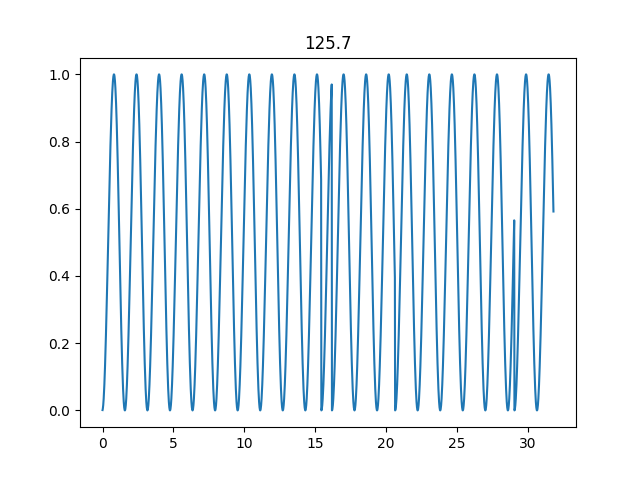
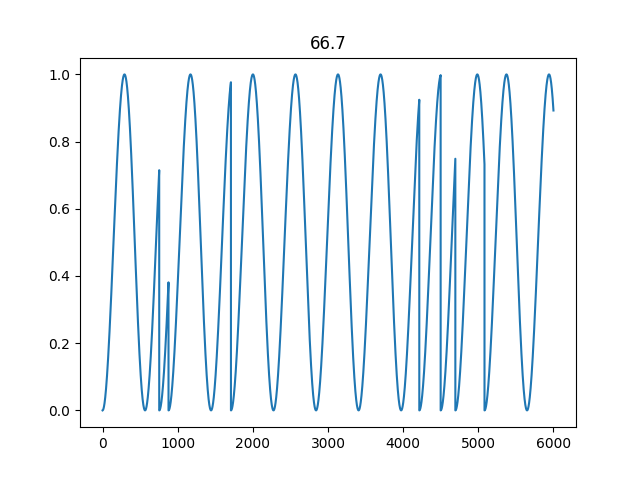
update the delt to get a better fit to the analytcal function

diff --git a/Main.py b/Main.py
@@ -12,14 +12,15 @@ import random
 import numpy as np
 import matplotlib.pyplot as plt
 import time
+from datetime import datetime
 import multiprocessing as mp
 
 # random.seed(384756)
 y1 = paras.prob1
 finals = []
-n_cpu = 6
+n_cpu = 8
 n_particle = 1000
-total_task = int(n_particle * paras.time / paras.delt)
+total_task = int(n_particle * paras.iteration)
 current_task = 0
 wow = r"""
 
@@ -110,8 +111,15 @@ def parallel():  # multi core processing
     chunk_size = int(total / n_cpu)
     print("Number of Core used: ", n_cpu)
     print("total task number: ", total_task)
-    print("estimated time: ", total_task / n_cpu / 10000, "s")
+    est = total_task/n_cpu/5000
+    est_m = int(est/60)
+    est_h = int(est_m/60)
+    est_m = est_m - est_h*60
+    est_s = est-60*est_m - est_h * 3600
+    print("estimated time: {}h {}m {}s.".format(est_h, est_m, est_s))
     begin = time.time()
+    now = datetime.now()
+    print("start time:", now)
     # distribute tasks
     for i in range(0, n_cpu):
         min_i = chunk_size * i
@@ -136,7 +144,13 @@ def parallel():  # multi core processing
     for proc in procs:
         proc.join()
     end = time.time()
-    print("time spent = {}s".format(end - begin))
+    end_time = datetime.now()
+    end_m = int(end/60)
+    end_h = int(end_m/60)
+    end_m = end_m-end_h*60
+    end_s = round(end - end_m*60 - end_h*3600, 1)
+    print("finish at :", end_time)
+    print("time spent = {}h {}m {}s".format(end_h, end_m, end_s))
 
     return res, end
 
@@ -165,8 +179,8 @@ def diff(a, b):  # calculate the percentage difference
         if a[i] == 0:
             result.append(0)
         else:
-            # result.append((a[i] - b[i]) / a[i])
-            result.append(a[i] - b[i])
+            result.append((a[i] - b[i]) / a[i])
+            # result.append(a[i] - b[i])
 
     return result
 
@@ -198,10 +212,10 @@ if __name__ == '__main__':
     # plot the graph
     plt.figure()
     fig, ax = plt.subplots(2, 1, figsize=[16, 10], gridspec_kw={'height_ratios': [4, 1]}, sharex=True)
-    xs = np.array(range(len(plot1)))
+    xs = np.array(range(len(plot1)))*paras.delt
     ys = plot1 / n_particle
 
-    ax[0].plot(range(int(paras.time / paras.delt)), anapop, label='OBE Analytic', color='green')
+    ax[0].plot(xs, anapop, label='OBE Analytic', color='green')
     ax[0].plot(xs[:-1], ys[:-1], label='Monte Carlo', color='blue')
 
     ax[0].legend()
@@ -217,7 +231,7 @@ if __name__ == '__main__':
     ax[0].set_title("Evolution", size=30)
     ax[0].set_ylabel("Population", size=15)
     ax[1].set_title("Difference", size=30)
-    ax[1].set_xlabel("Time steps", size=15)
+    ax[1].set_xlabel("Time", size=15)
     ax[1].set_ylabel("Percentage", size=15)
     fig.savefig("t={}s,n_particle={}.png".format(round(paras.time, 1), n_particle))
     fig.show()

diff --git a/functions.py b/functions.py
@@ -21,10 +21,12 @@ def comparison(function, r, flag):
     if r < innerproduct:
         # print("Jump failed")
         result = function / np.sqrt(innerproduct)
+
+
         #flag = flag + 1
     else:
         # print("Jump succeed")
-        #result = jump(function) / np.sqrt(inner(jump(function)))
+        # result = jump(function) / np.sqrt(inner(jump(function)))
         result = np.matrix([[1], [0]])  # use of daga calculation give the same method but lose precision
         # for the time between collapse
         #flag = 0

diff --git a/parameters.py b/parameters.py
@@ -4,13 +4,14 @@
 import numpy as np
 
 a, b = 1, 0
-det = 0        #delta sign
+det = 0                 #delta sign
 rabi = 1                #omega sign
 Gamma = 0.1 * rabi      #Gamma sign
 h = 6.626e-34           #planck constant
 
-delt = (1 / 100) * (1 / rabi) * (2 * np.pi)
-time = 2000 * delt # unis: s
+delt = (1 / 300) * (1 / rabi)
+iteration = 20000
+time = iteration * delt # unis: s
 prob = np.matrix([[a],
                   [b]]) #[a,b] represent for a/(a+b) with [1,0] and b/(a+b) with [0,1]
 prob1 = np.array([a,b])
